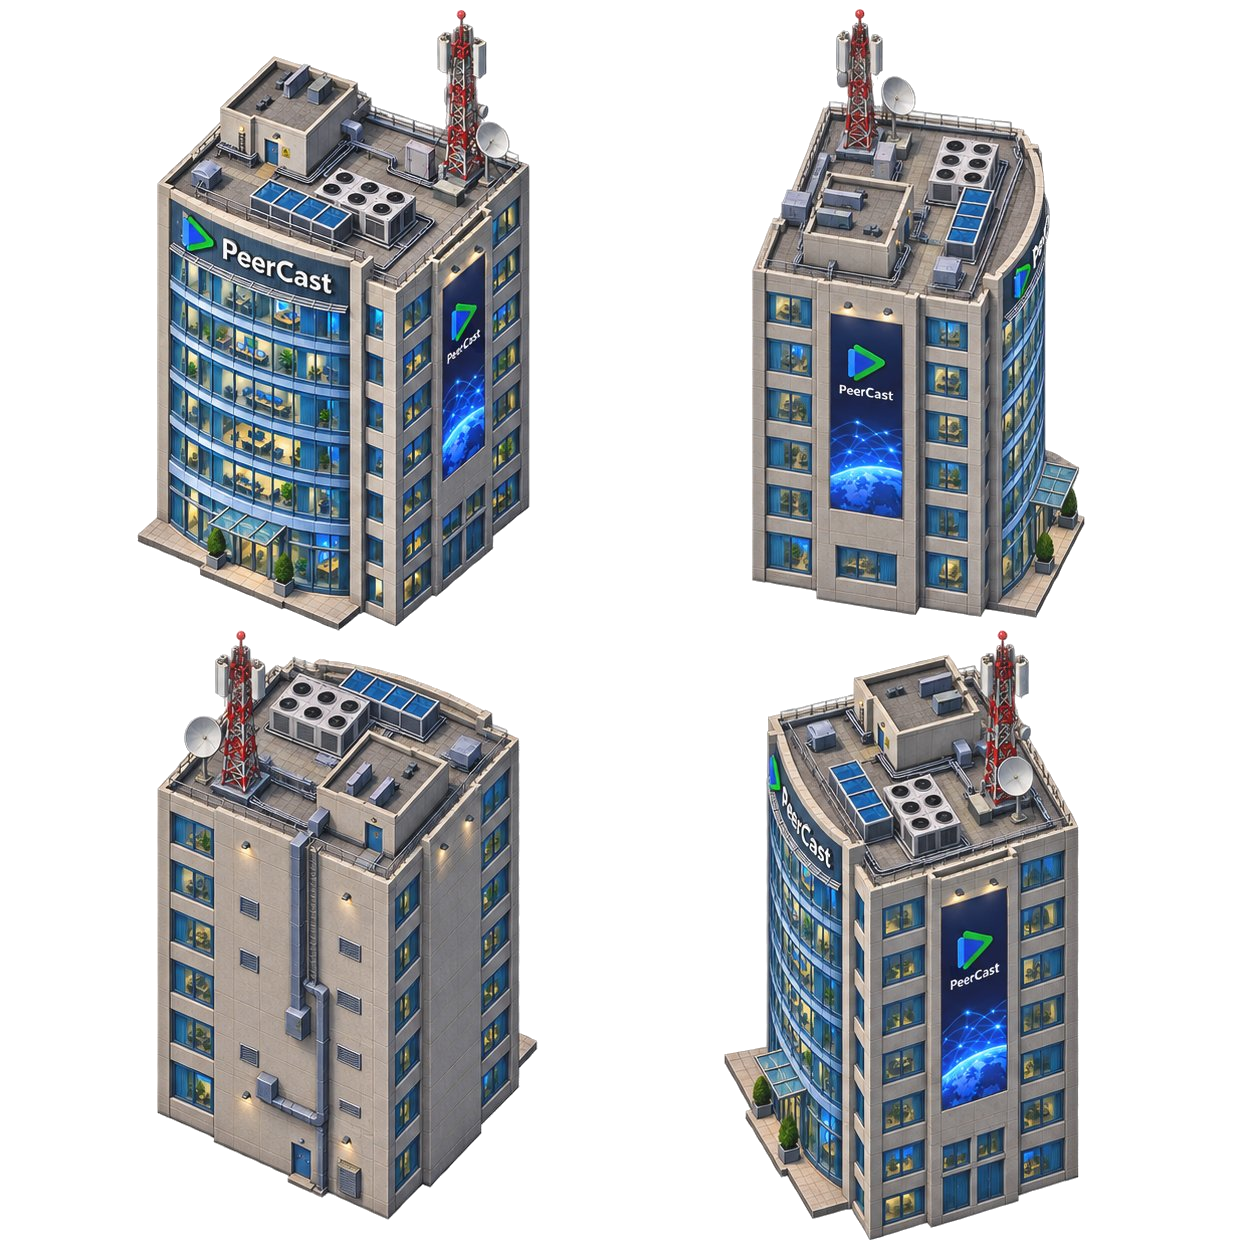
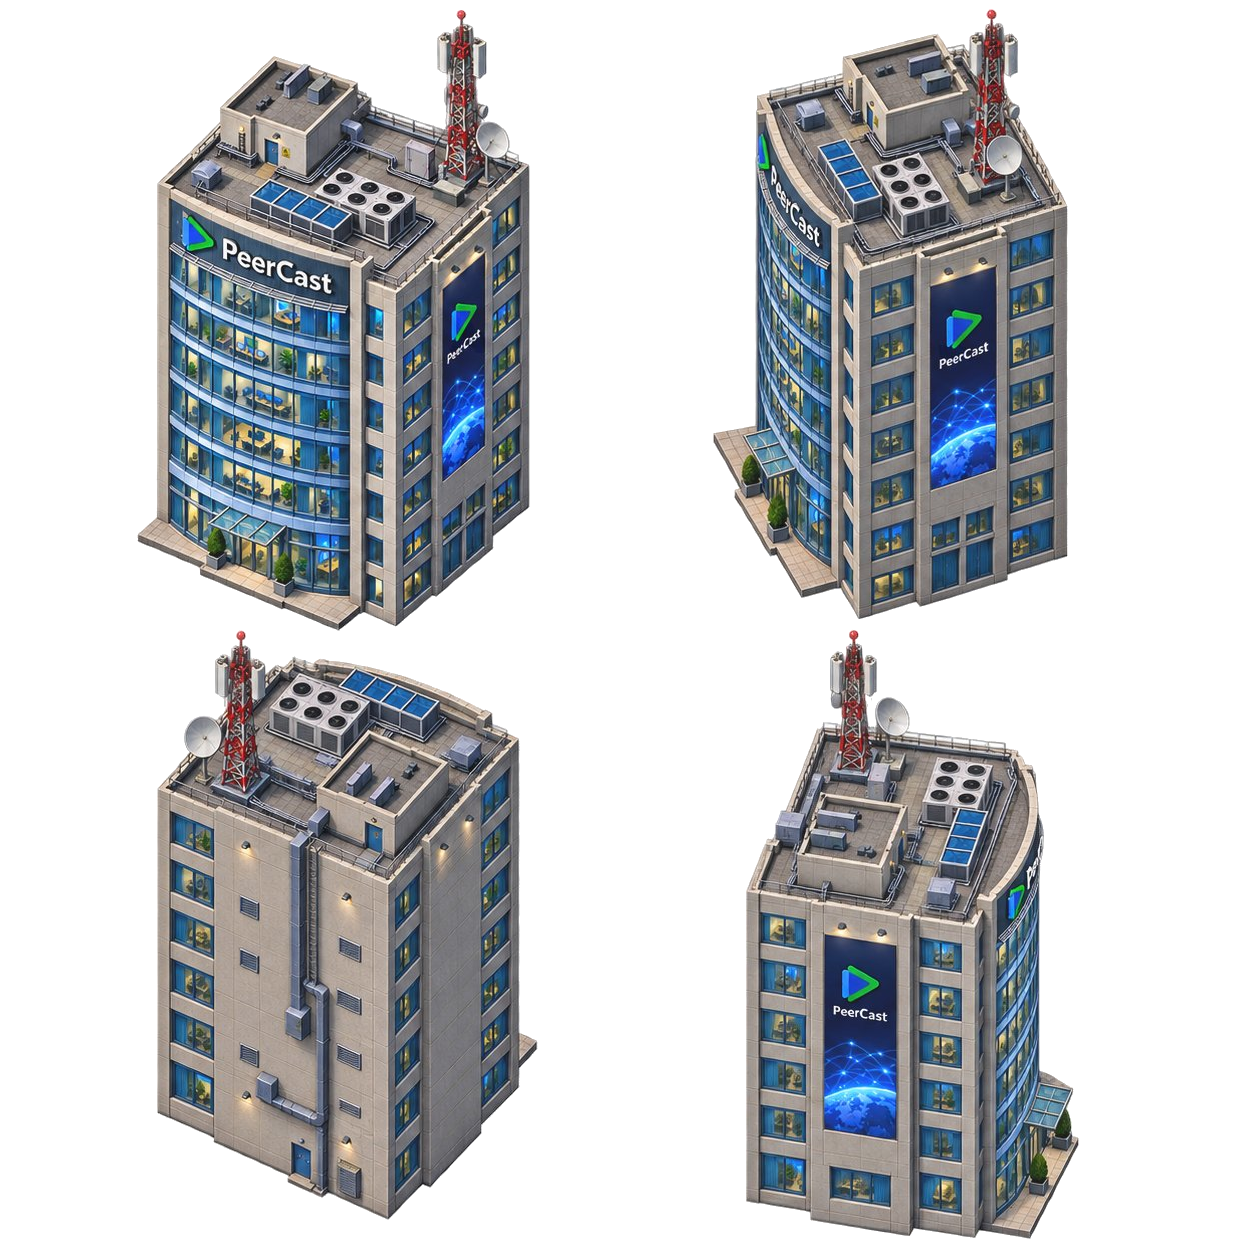
fix orientation

Changed region(s): [[0.5598, 0.0, 0.8708, 0.9952]]

diff --git a/README.md b/README.md
@@ -58,9 +58,9 @@ output/
 
 ```text
 +-------+-------+
-| North | East  |
+| North | West  |
 +-------+-------+
-| South | West  |
+| South | East  |
 +-------+-------+
 ```
 
